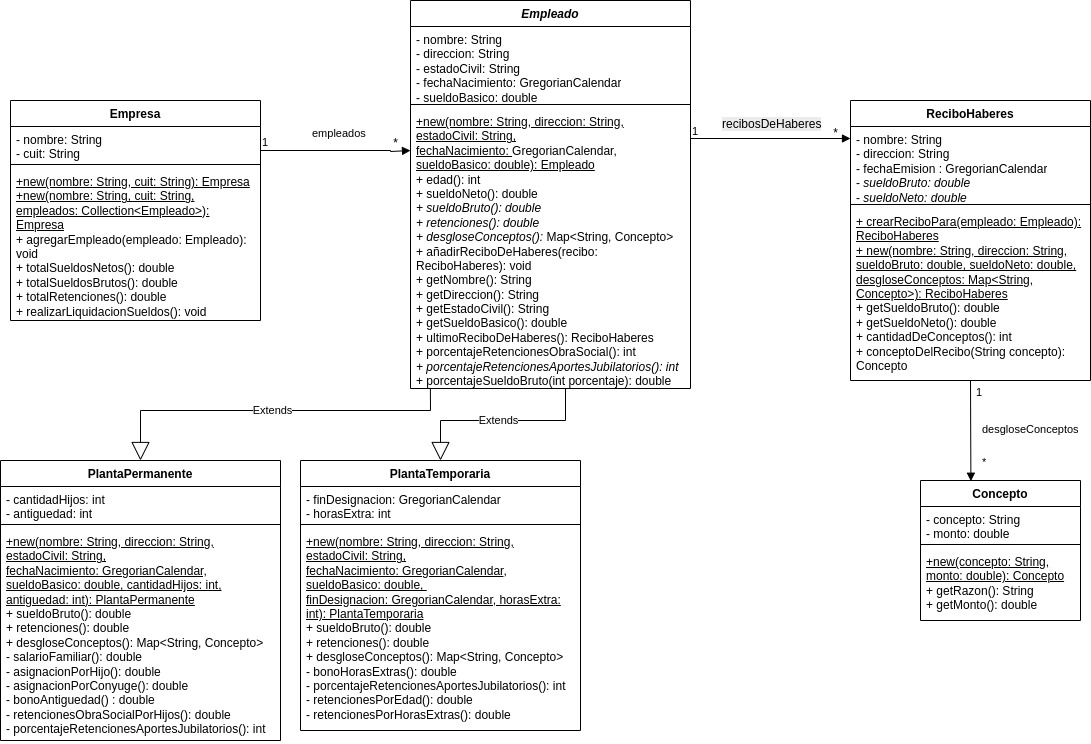
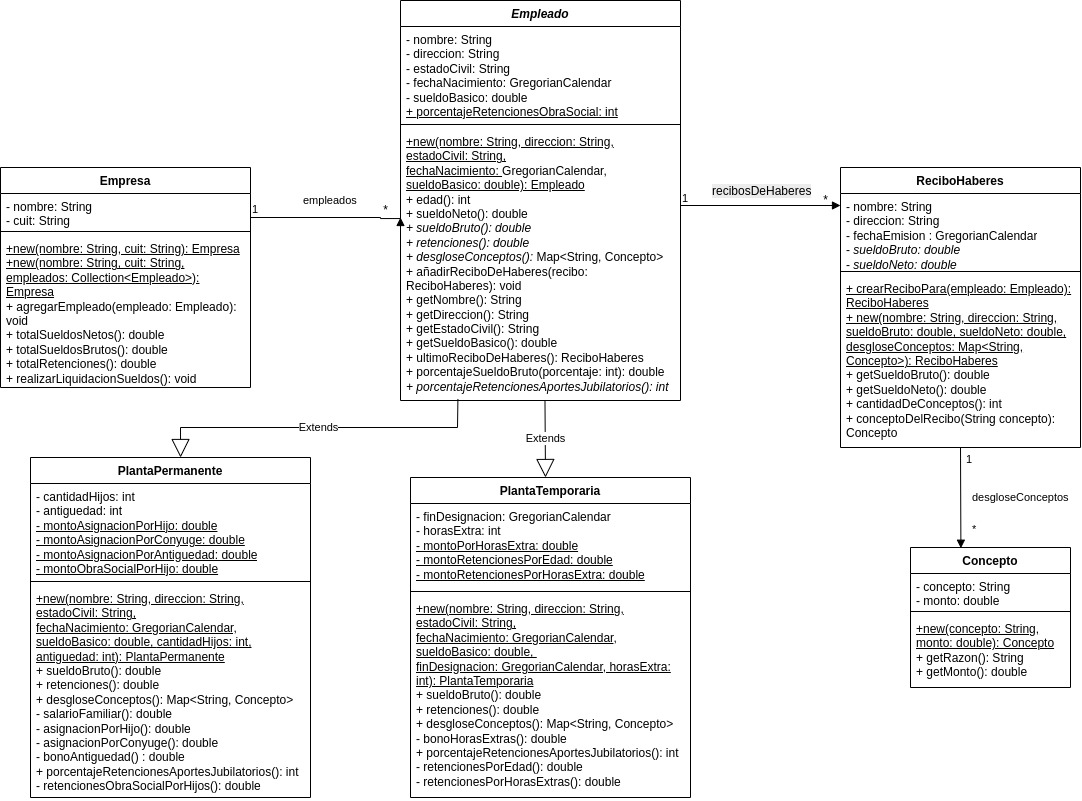
Se mejora el código en Java al crear clase intermedia EmpleadoPlanta

diff --git a/tp2/ejercicio1Java/src/mainPackage/empleado/PlantaPermanente.java b/tp2/ejercicio1Java/src/mainPackage/empleado/PlantaPermanente.java
@@ -6,7 +6,7 @@ import java.util.HashMap;
 
 import mainPackage.Concepto;
 
-public class PlantaPermanente extends Empleado {
+public class PlantaPermanente extends EmpleadoPlanta {
 	private int cantidadHijos;
 	private int antiguedad;
 	final static double montoAsignacionPorHijo = 150;
@@ -29,7 +29,7 @@ public class PlantaPermanente extends Empleado {
 	
 	@Override
 	public double retenciones() {
-		return this.porcentajeSueldoBruto(this.porcentajeRetencionesObraSocial())
+		return this.porcentajeSueldoBruto(EmpleadoPlanta.porcentajeRetencionesObraSocial)
 		+ this.retencionesObraSocialPorHijos() + this.porcentajeSueldoBruto(
 		this.porcentajeRetencionesAportesJubilatorios());
 	}
@@ -41,7 +41,7 @@ public class PlantaPermanente extends Empleado {
 		desglose.put("Asignación por hijo", new Concepto("Asignación por hijo", this.asignacionPorHijo()));
 		desglose.put("Asignación por conyuge", new Concepto("Asignación por conyuge", this.asignacionPorConyuge()));
 		desglose.put("Bono por antiguedad", new Concepto("Bono por antiguedad", this.bonoPorAntiguedad()));
-		desglose.put("Retenciones por Obra Social", new Concepto("Retenciones por Obra Social", this.porcentajeSueldoBruto(this.porcentajeRetencionesObraSocial())));
+		desglose.put("Retenciones por Obra Social", new Concepto("Retenciones por Obra Social", this.porcentajeSueldoBruto(EmpleadoPlanta.porcentajeRetencionesObraSocial)));
 		desglose.put("Retenciones por Obra Social de los hijos", new Concepto("Retenciones por Obra Social de los hijos", this.retencionesObraSocialPorHijos()));
 		desglose.put("Retenciones por Aportes Jubilatorios", new Concepto("Retenciones por Aportes Jubilatorios", this.porcentajeSueldoBruto(this.porcentajeRetencionesAportesJubilatorios())));
 		return desglose;
@@ -68,15 +68,13 @@ public class PlantaPermanente extends Empleado {
 		return antiguedad * montoAsignacionPorAntiguedad;
 	}
 	
+	@Override
+	int porcentajeRetencionesAportesJubilatorios() {
+		return 15;
+	}
+	
 	private double retencionesObraSocialPorHijos() {
 		return cantidadHijos * montoObraSocialPorHijo;
 	}
 	
-	private int porcentajeRetencionesObraSocial() {
-		return 10;
-	}
-	
-	private int porcentajeRetencionesAportesJubilatorios() {
-		return 15;
-	}
 }

diff --git a/tp2/ejercicio1Java/src/mainPackage/empleado/PlantaTemporaria.java b/tp2/ejercicio1Java/src/mainPackage/empleado/PlantaTemporaria.java
@@ -6,7 +6,7 @@ import java.util.Map;
 
 import mainPackage.Concepto;
 
-public class PlantaTemporaria extends Empleado {
+public class PlantaTemporaria extends EmpleadoPlanta {
 	private Calendar finDesignacion;
 	private int horasExtra;
 	final static double montoPorHorasExtra = 40;
@@ -29,7 +29,7 @@ public class PlantaTemporaria extends Empleado {
 	
 	@Override
 	public double retenciones() {
-		return this.porcentajeSueldoBruto(this.porcentajeRetencionesObraSocial())
+		return this.porcentajeSueldoBruto(EmpleadoPlanta.porcentajeRetencionesObraSocial)
 		+ this.retencionesPorEdad() + this.porcentajeSueldoBruto(
 		this.porcentajeRetencionesAportesJubilatorios()) +
 		this.retencionesPorHorasExtras();
@@ -40,7 +40,7 @@ public class PlantaTemporaria extends Empleado {
 		Map<String, Concepto> desglose = new HashMap<String, Concepto>();
 		desglose.put("Sueldo Básico", new Concepto("Sueldo Básico", this.getSueldoBasico()));
 		desglose.put("Bono por horas extras", new Concepto("Bono por horas extras", this.bonoHorasExtras()));
-		desglose.put("Retenciones por Obra Social", new Concepto("Retenciones por Obra Social", this.porcentajeSueldoBruto(this.porcentajeRetencionesObraSocial())));
+		desglose.put("Retenciones por Obra Social", new Concepto("Retenciones por Obra Social", this.porcentajeSueldoBruto(EmpleadoPlanta.porcentajeRetencionesObraSocial)));
 		desglose.put("Retenciones de Obra Social por edad", new Concepto("Retenciones de Obra Social por edad", this.retencionesPorEdad()));
 		desglose.put("Retenciones por Aportes Jubilatorios", new Concepto("Retenciones por Aportes Jubilatorios", this.porcentajeSueldoBruto(this.porcentajeRetencionesAportesJubilatorios())));
 		desglose.put("Retenciones de Aportes Jubilatorios por horas extras", new Concepto("Retenciones de Aportes Jubilatorios por horas extras", this.retencionesPorHorasExtras()));
@@ -51,11 +51,8 @@ public class PlantaTemporaria extends Empleado {
 		return horasExtra * montoPorHorasExtra;
 	}
 	
-	private int porcentajeRetencionesObraSocial() {
-		return 10;
-	}
-	
-	private int porcentajeRetencionesAportesJubilatorios() {
+	@Override
+	int porcentajeRetencionesAportesJubilatorios() {
 		return 10;
 	}
 	

diff --git a/tp2/ejercicio1Java/src/mainPackage/Empresa.java b/tp2/ejercicio1Java/src/mainPackage/Empresa.java
@@ -1,21 +1,21 @@
 package mainPackage;
 
-import java.util.Collection;
-import java.util.ArrayList;
+import java.util.Set;
+import java.util.HashSet;
 import mainPackage.empleado.Empleado;
 
 public class Empresa {
 	private String nombre; 
 	private String cuit;
-	private Collection<Empleado> empleados;
+	private Set<Empleado> empleados;
 	
 	public Empresa(String nombre, String cuit) {
 		this.nombre = nombre;
 		this.cuit = cuit;
-		this.empleados = new ArrayList<Empleado>();
+		this.empleados = new HashSet<Empleado>();
 	}
 	
-	public Empresa(String nombre, String cuit, Collection<Empleado>
+	public Empresa(String nombre, String cuit, Set<Empleado>
 	empleados) {
 		this.nombre = nombre;
 		this.cuit = cuit;

diff --git a/tp2/ejercicio1Java/src/mainPackage/empleado/EmpleadoPlanta.java b/tp2/ejercicio1Java/src/mainPackage/empleado/EmpleadoPlanta.java
@@ -1,0 +1,20 @@
+package mainPackage.empleado;
+
+import java.util.Calendar;
+
+abstract public class EmpleadoPlanta extends Empleado {
+	
+	final static int porcentajeRetencionesObraSocial = 10;
+	
+	public EmpleadoPlanta(String nombre, String direccion, String estadoCivil,
+			Calendar fechaNacimiento, double sueldoBasico) {
+		super(nombre, direccion, estadoCivil, fechaNacimiento, sueldoBasico);
+	}
+	
+	double porcentajeSueldoBruto(int porcentaje) {
+		return porcentaje * this.sueldoBruto() / 100;
+	}
+	
+	abstract int porcentajeRetencionesAportesJubilatorios();
+	
+}

diff --git a/tp2/ejercicio1Java/src/mainPackage/empleado/EmpleadoContratado.java b/tp2/ejercicio1Java/src/mainPackage/empleado/EmpleadoContratado.java
@@ -33,7 +33,7 @@ public class EmpleadoContratado extends Empleado {
 	public Map<String, Concepto> desgloseConceptos() {
 		Map<String, Concepto> desglose = new HashMap<String, Concepto>();
 		desglose.put("Sueldo Básico", new Concepto("Sueldo Básico", this.getSueldoBasico()));
-		desglose.put("Sueldo Básico", new Concepto("Gastos Administrativos Contractuales", this.retenciones()));
+		desglose.put("Gastos Administrativos Contractuales", new Concepto("Gastos Administrativos Contractuales", gastosAdministrativosContractuales));
 		return desglose;
 	}
 

diff --git a/tp2/ejercicio1Java/src/mainPackage/empleado/Empleado.java b/tp2/ejercicio1Java/src/mainPackage/empleado/Empleado.java
@@ -24,7 +24,7 @@ abstract public class Empleado {
 		this.sueldoBasico = sueldoBasico;
 	}
 	
-	public int edad() {
+	public int edad() { //MEJORAR (capaz tenga que cambiar a otro tipo de dato como localDate) (márgen de error de 1 año)
 		return Calendar.getInstance().getWeekYear() - 
 				fechaNacimiento.getWeekYear();
 	}
@@ -63,7 +63,4 @@ abstract public class Empleado {
 		return recibosDeHaberes.getLast();
 	}
 	
-	protected double porcentajeSueldoBruto(int porcentaje) {
-		return porcentaje * this.sueldoBruto() / 100;
-	}
 }

diff --git a/tp2/ejercicio1Java/test/MainPackageTest/EmpresaTest.java b/tp2/ejercicio1Java/test/MainPackageTest/EmpresaTest.java
@@ -44,7 +44,7 @@ public class EmpresaTest {
 	
 	//SE AGREGA UN EMPLEADO CONTRATADO
 	@Test
-	void empleadoContratado() {
+	void totalSueldosNetosAgregandoContratado() {
 		EmpleadoContratado carolina = new EmpleadoContratado("Carolina Gómez", "Córdoba 4442", "Soltero", new GregorianCalendar(2003, 3, 21), 400000, 387209, "Transferencia Bancaria a Cuenta Personal");
 		fortalezaSeguros.agregarEmpleado(carolina);
 		assertEquals(2508602, fortalezaSeguros.totalSueldosNetos()); //el de carolina es 399950
